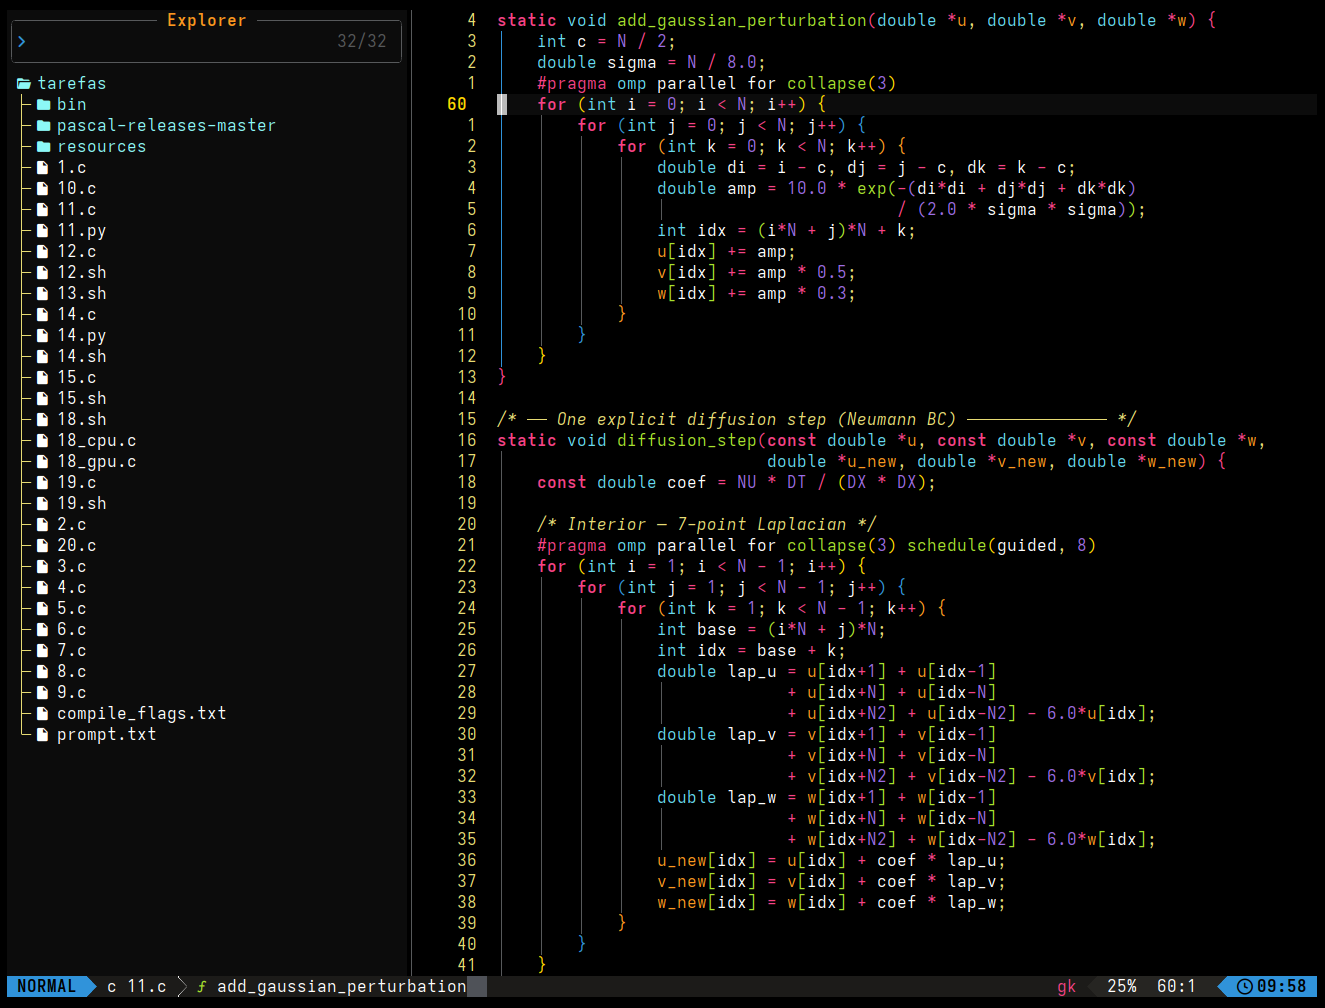
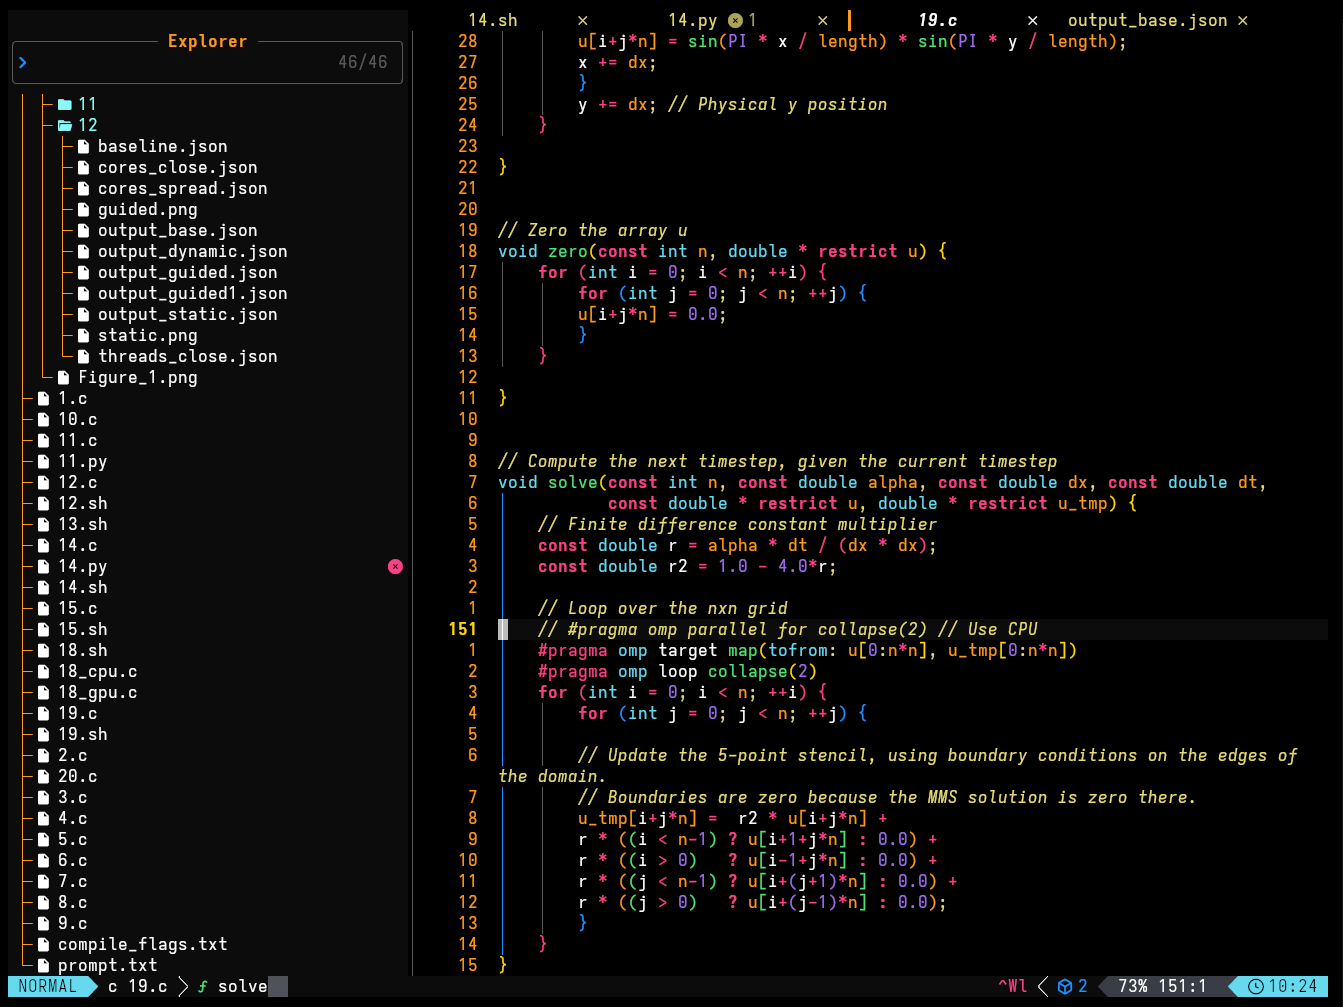
feat: readme com guias de instalação para outras distribuições do nvim

diff --git a/media/logo.html b/media/logo.html
@@ -1,0 +1,47 @@
+<!DOCTYPE html>
+<html lang="en">
+<head>
+    <meta charset="UTF-8">
+    <meta name="viewport" content="width=device-width, initial-scale=1.0">
+    <title>MURIKAI</title>
+    <style>
+        body {
+            background-color: #000000; /* bg */
+            margin: 0;
+            height: 100vh;
+            display: flex;
+            justify-content: center;
+            align-items: center;
+            font-family: 'Fira Code', 'JetBrains Mono', 'Courier New', monospace;
+            overflow: hidden;
+        }
+
+        .title {
+            font-size: 10rem;
+            font-weight: bold;
+            letter-spacing: 0.05em;
+            user-select: none;
+        }
+
+        /* Palette Colors */
+        .c-pink       { color: #f84285; }
+        .c-orange     { color: #fc971f; }
+        .c-yellow     { color: #ffd700; }
+        .c-green      { color: #4fe275; }
+        .c-light-blue { color: #66d9ef; }
+        .c-blue       { color: #1E90FF; }
+        .c-purple     { color: #9c6de7; }
+    </style>
+</head>
+<body>
+    <div class="title">
+        <span class="c-pink">M</span>
+        <span class="c-orange">U</span>
+        <span class="c-yellow">R</span>
+        <span class="c-green">I</span>
+        <span class="c-light-blue">K</span>
+        <span class="c-blue">A</span>
+        <span class="c-purple">I</span>
+    </div>
+</body>
+</html>

diff --git a/README.md b/README.md
@@ -9,8 +9,10 @@ Um tema moderno, modular e desenvolvido inteiramente em Lua puro para o Neovim b
 ![Murikai Screenshot](media/screenshot.png)
 
 ## Instalação e Configuração
-### 1. Utilizando o Lazy.nvim
-Para testar ou instalar diretamente em sua configuração do LazyVim, adicione o seguinte spec de plugin (geralmente em lua/plugins/theme.lua ou similar):
+
+### 1. Lazy.nvim
+
+Adicione o seguinte spec em sua configuração — normalmente em `~/.config/nvim/lua/plugins/theme.lua`:
 
 ```lua
 return {
@@ -19,22 +21,107 @@ return {
         lazy = false,
         priority = 1000,
         config = function()
-        vim.cmd("colorscheme murikai")
+            vim.cmd("colorscheme murikai")
         end,
-    }
+    },
 }
 ```
 
-### 2. Ativando o Tema no Lualine
-Para garantir que a barra inferior combine perfeitamente com o tema, configure o Lualine para utilizar o profile do Murikai:
+### 2. LazyVim
+
+Se você usa a distribuição [LazyVim](https://www.lazyvim.org/), crie (ou edite) o arquivo `~/.config/nvim/lua/plugins/colorscheme.lua` e adicione:
+
+```lua
+return {
+    {
+        "MuriloBarros304/murikai",
+        lazy = false,
+        priority = 1000,
+        config = function()
+            vim.cmd("colorscheme murikai")
+        end,
+    },
+    -- Desabilita o tema padrão do LazyVim
+    { "folke/tokyonight.nvim", enabled = false },
+}
+```
+
+Em seguida, abra o Neovim e execute `:Lazy sync` para instalar.
+
+> **Dica:** O LazyVim carrega automaticamente todos os arquivos dentro de `lua/plugins/`, então nenhuma configuração extra é necessária.
+
+### 3. Neovim
+
+Você pode instalar manualmente clonando o repositório diretamente na pasta de pacotes nativa do Neovim:
+
+```bash
+# Linux / macOS
+git clone https://github.com/MuriloBarros304/murikai \
+  ~/.local/share/nvim/site/pack/themes/start/murikai
+```
+
+Depois, adicione em seu `~/.config/nvim/init.lua`:
+
+```lua
+vim.cmd("colorscheme murikai")
+```
+
+Ou, se ainda usar `init.vim`:
+
+```vim
+colorscheme murikai
+```
+
+### 4. Packer.nvim
+
+```lua
+use {
+    "MuriloBarros304/murikai",
+    config = function()
+        vim.cmd("colorscheme murikai")
+    end,
+}
+```
+
+Após salvar o arquivo, execute `:PackerSync` dentro do Neovim.
+
+### 5. vim-plug
+
+```vim
+Plug 'MuriloBarros304/murikai'
+```
+
+Após adicionar a linha acima entre `call plug#begin()` e `call plug#end()`, execute `:PlugInstall`. Em seguida, adicione ao final do seu `init.vim`:
+
+```vim
+colorscheme murikai
+```
+
+---
+
+## Lualine
+
+Para garantir que a barra de status combine perfeitamente com o tema, configure o [lualine.nvim](https://github.com/nvim-lualine/lualine.nvim) para utilizar o perfil do Murikai.
+
+**Com Lazy.nvim / LazyVim** — em `lua/plugins/lualine.lua`:
 
 ```lua
 return {
     "nvim-lualine/lualine.nvim",
     opts = {
         options = {
-        theme = "murikai",
+            theme = "murikai",
         },
     },
 }
+```
+
+**Com Packer / configuração manual** — em `init.lua`:
+
+```lua
+require("lualine").setup({
+    options = {
+        theme = "murikai",
+    },
+})
 ```
